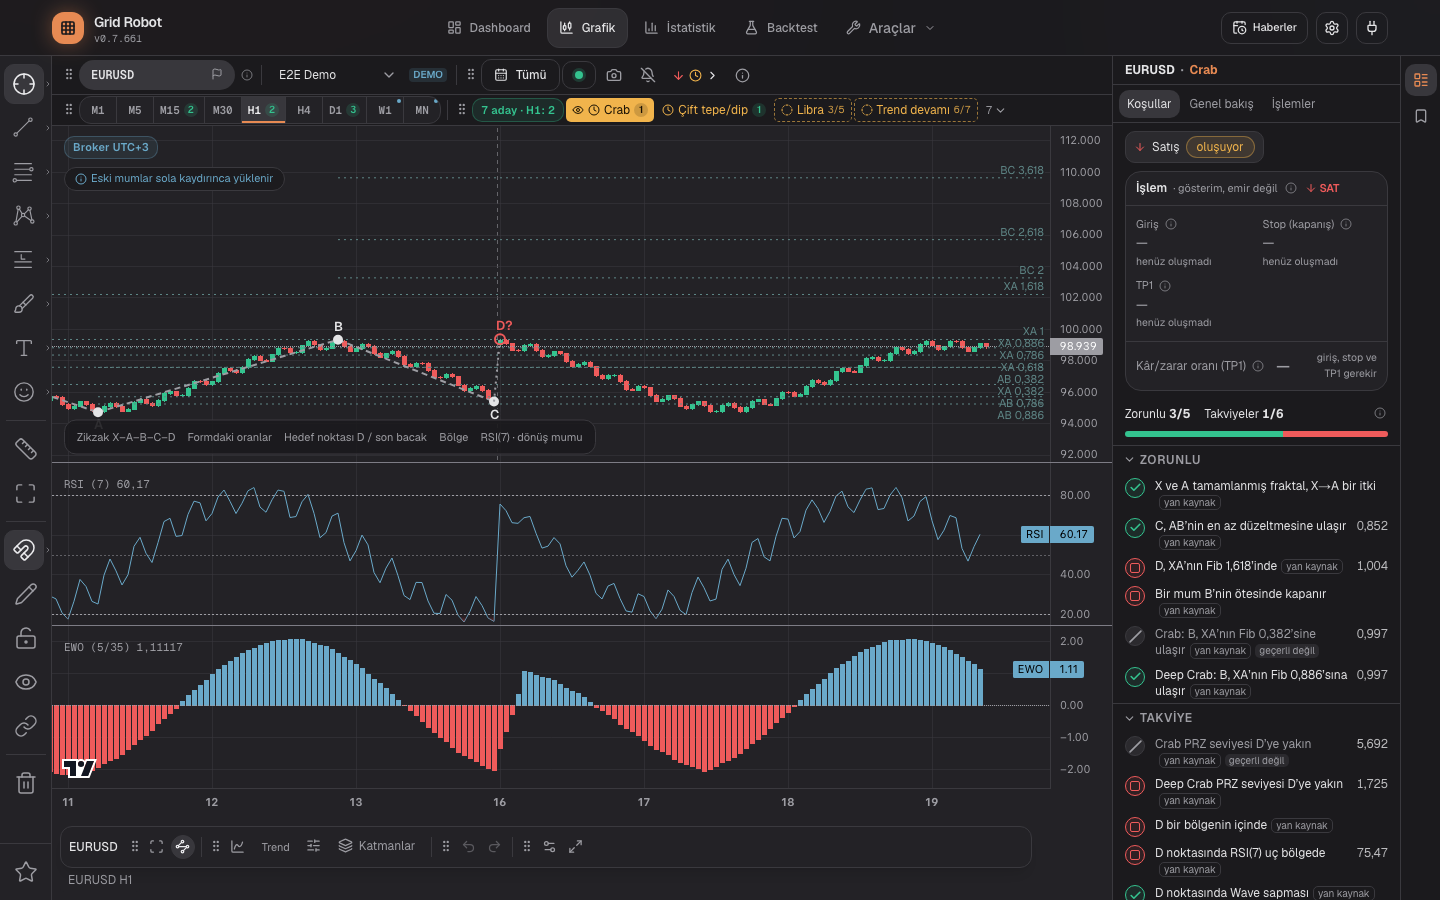
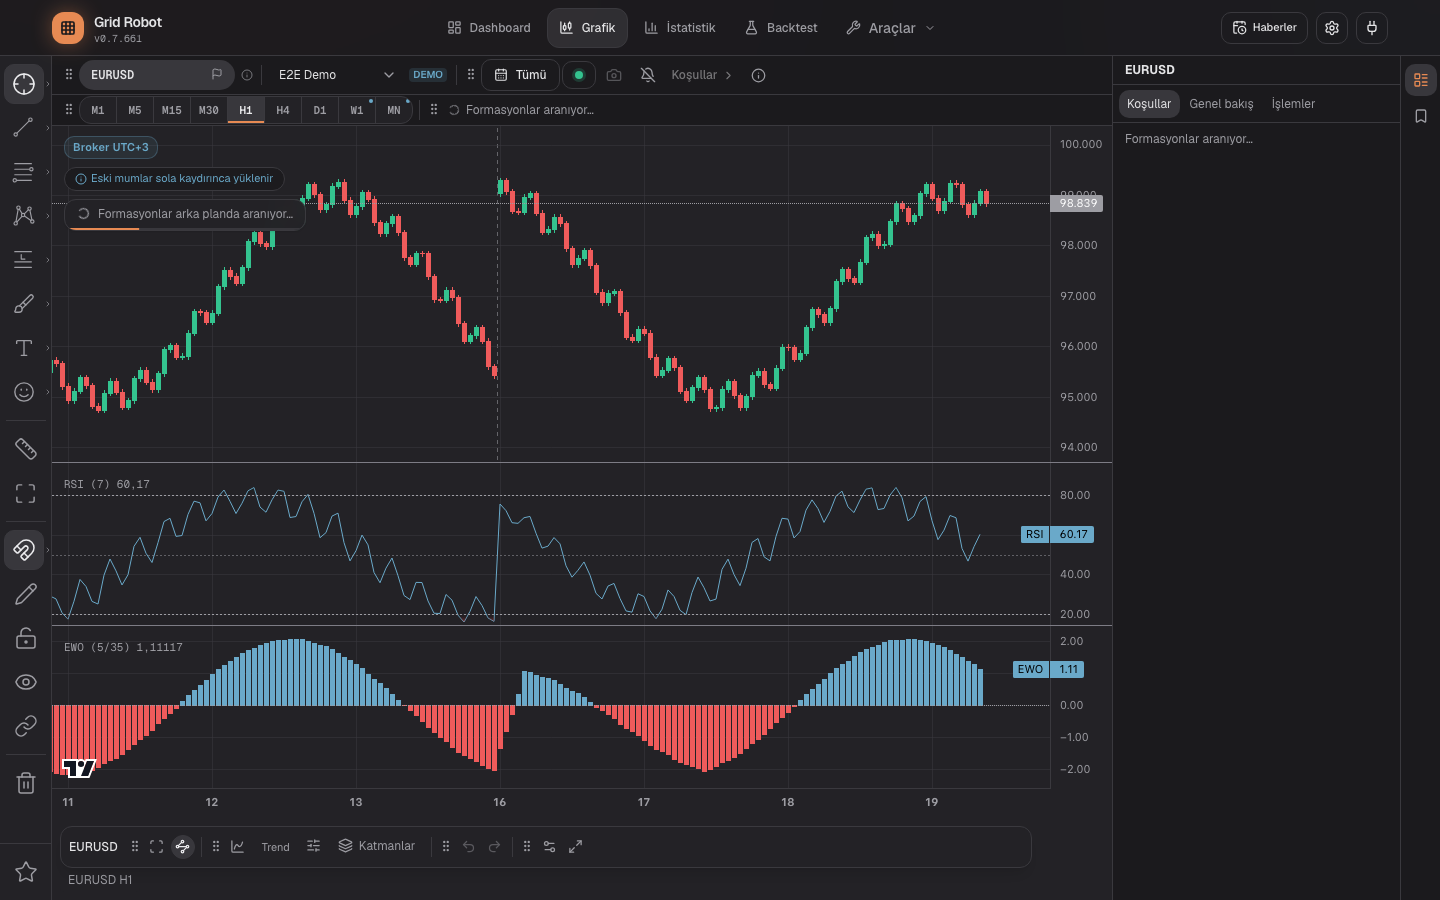
feat(chart): hesap seçici de yüklenirken yer tutucu; alarm testleri OneChart'ı bekler (UI-15)

diff --git a/frontend_nextjs/e2e/mocked/chart-topbar-loading.spec.ts b/frontend_nextjs/e2e/mocked/chart-topbar-loading.spec.ts
@@ -25,7 +25,7 @@ function xPositions(page: Page, timeframes: string) {
   return page.evaluate(([tf, accountLabel]) => {
     const left = (el: Element | null) => el ? Math.round(el.getBoundingClientRect().left * 10) / 10 : null;
     return {
-      account: left(document.querySelector(`[aria-label="${accountLabel}"]`)),
+      account: left(document.querySelector(`[aria-label="${accountLabel}"], [data-testid="chart-topbar-account-loading"]`)),
       range: left(document.querySelector('[data-testid="range-trigger"]')),
       timeframes: left(document.querySelector(`[data-testid="${tf}"]`)),
     };
@@ -49,6 +49,11 @@ test.describe('UI-15 Kopfleiste beim Laden der Kontoliste', () => {
     await expect(timeframes).toHaveAttribute('aria-busy', 'true');
     await expect(timeframes).toContainText('H4');
     await expect(page.getByTestId('chart-loading')).toBeVisible();
+    const account = page.getByTestId('chart-topbar-account-loading');
+    await expect(account).toBeVisible();
+    await expect(account).toHaveAttribute('aria-busy', 'true');
+    await expect(account).toContainText(msg('chart.loading.accounts'));
+    await expect(page.getByText(msg('account.select.placeholder'))).toHaveCount(0);
     const before = await xPositions(page, 'chart-topbar-timeframes-loading');
     const barBefore = await bar.evaluate((el) => Math.round(el.getBoundingClientRect().height));
 
@@ -56,6 +61,7 @@ test.describe('UI-15 Kopfleiste beim Laden der Kontoliste', () => {
     await expect(page.getByTestId('timeframe-select')).toBeVisible();
     await expect(symbol).toHaveCount(0);
     await expect(timeframes).toHaveCount(0);
+    await expect(account).toHaveCount(0);
     const after = await xPositions(page, 'timeframe-select');
     expect(before.account).not.toBeNull();
     expect(before.range).not.toBeNull();
@@ -74,6 +80,7 @@ test.describe('UI-15 Kopfleiste beim Laden der Kontoliste', () => {
     await expect(page.getByTestId('chart-topbar')).toBeVisible();
     await expect(page.getByTestId('chart-topbar-symbol-loading')).toHaveCount(0);
     await expect(page.getByTestId('chart-topbar-timeframes-loading')).toHaveCount(0);
+    await expect(page.getByTestId('chart-topbar-account-loading')).toHaveCount(0);
     release();
     await expect(page.getByTestId('timeframe-select')).toBeVisible();
   });

diff --git a/frontend_nextjs/src/components/formation/FormationSelectors.tsx b/frontend_nextjs/src/components/formation/FormationSelectors.tsx
@@ -9,6 +9,7 @@ import { Combobox, ComboboxAutocomplete } from '@/components/ui/combobox';
 import { InfoHint, Tooltip } from '@/components/ui/tooltip';
 import { useFavorites } from '@/hooks/useFavorites';
 import { useSymbolDetails } from '@/hooks/useSymbolDetails';
+import { useDock } from '@/components/chart-workspace/dock/DockProvider';
 import { useT } from '@/i18n';
 import { cn } from '@/lib/utils';
 import type { SymbolDetail } from '@/store/types';
@@ -156,14 +157,26 @@ export function FormationSymbolSelect({ accountId, value, onChange, className }:
 }
 
 /** Konto als flacher Knopf; LIVE/DEMO steht immer sichtbar daneben. */
-export function FormationAccountSelect({ accounts, value, onChange, className }: {
+export function FormationAccountSelect({ accounts, value, onChange, className, loading = false }: {
   className?: string;
+  /** Die Kontoliste lädt (1119-A9.1): auf dem Desktop steht ein grauer Platzhalter statt „Konto wählen“; auf dem Handy bleibt der bisherige Zustand */
+  loading?: boolean;
   accounts: Account[];
   value: string | null;
   onChange: (id: string) => void;
 }) {
   const t = useT();
+  const dock = useDock();
   const env = accounts.find((account) => String(account.id) === value)?.env_type;
+  if (loading && dock && !dock.phone) {
+    return (
+      <Tooltip content={t('chart.loading.accounts.hint')} className={cn('min-w-0 flex-1 lg:w-44 lg:flex-none', className)}>
+        <div role="status" aria-busy="true" data-testid="chart-topbar-account-loading" className="flex h-[30px] w-full min-w-0 animate-pulse items-center px-2 text-xs text-muted-foreground">
+          <span className="truncate">{t('chart.loading.accounts')}</span>
+        </div>
+      </Tooltip>
+    );
+  }
   return (
     <Tooltip content={t('account.label.hint')} className={cn('min-w-0 flex-1 lg:w-44 lg:flex-none', className)}>
       <div className="flex w-full min-w-0 items-center gap-1">

diff --git a/frontend_nextjs/src/i18n/messages/hints.ts b/frontend_nextjs/src/i18n/messages/hints.ts
@@ -40,6 +40,7 @@ const existingHints = defineArea(
     "backtest.compare.breakdown.hint": "Kapanan işlemleri setup, kapanış günü veya MT5 saatine göre gruplar.",
 
     // --- Hesap ---
+    'chart.loading.accounts.hint': 'Hesap listesi worker’dan yükleniyor; yüklenince hesap seçici burada açılır.',
     'account.label.hint':
       'Üzerinde çalışılan MT5 hesabını seçer. Bölgeler, bot ve loglar seçili hesaba aittir.',
     'account.action.downloadLog.hint': 'Seçili hesabın bot log dosyasını bilgisayarınıza indirir.',
@@ -743,6 +744,7 @@ const existingHints = defineArea(
     "backtest.compare.breakdown.hint": "Groups closed trades by setup, closing weekday or MT5 hour.",
 
     // --- Account ---
+    'chart.loading.accounts.hint': 'The account list is loading from the worker; the account selector appears here when it is ready.',
     'account.label.hint':
       'Selects the MT5 account you are working with. Zones, bot and logs belong to the selected account.',
     'account.action.downloadLog.hint': 'Downloads the bot log file of the selected account to your computer.',
@@ -1446,6 +1448,7 @@ const existingHints = defineArea(
     "backtest.compare.breakdown.hint": "Gruppiert geschlossene Trades nach Setup, Schließ-Wochentag oder MT5-Stunde.",
 
     // --- Konto ---
+    'chart.loading.accounts.hint': 'Die Kontoliste wird vom Worker geladen; die Kontoauswahl erscheint hier, sobald sie da ist.',
     'account.label.hint':
       'Wählt das MT5-Konto, mit dem Sie arbeiten. Zonen, Bot und Logs gehören zum gewählten Konto.',
     'account.action.downloadLog.hint': 'Lädt die Bot-Logdatei des gewählten Kontos auf Ihren Computer herunter.',

diff --git a/frontend_nextjs/e2e/mocked/formation-page.spec.ts b/frontend_nextjs/e2e/mocked/formation-page.spec.ts
@@ -1627,6 +1627,8 @@ test.describe('FRM-30 Alarm für Favoriten und Alarm-Produkte auf jeder Seite', 
       Notification.requestPermission = () => new Promise(() => {});
     });
     await page.goto(`/chart?account=${DEMO_ID}`);
+    // Erst der Chart des Kontos: ein Panel, das in der Ladeleiste (ohne Konto) geöffnet wird, geht beim Wechsel verloren (UI-15, 1119-A9.1)
+    await expect(page.getByTestId('timeframe-select')).toBeVisible();
     await openAlarmSettings(page);
     const stored = () => page.evaluate((key) => JSON.parse(localStorage.getItem(key) ?? '{}'), KEY);
     await page.getByRole('switch', { name: msg('formation.alarm.favorites') }).click();
@@ -1954,6 +1956,8 @@ test.describe('FRM-30 Alarm für Favoriten und Alarm-Produkte auf jeder Seite', 
     serveFixture(worker, NOW);
     await seed(page, { favoritesEnabled: [DEMO_ID], history: { [DEMO_ID]: [history()] }, forms: [] });
     await page.goto(`/chart?account=${DEMO_ID}`);
+    // Erst der Chart des Kontos: ein Panel, das in der Ladeleiste (ohne Konto) geöffnet wird, geht beim Wechsel verloren (UI-15, 1119-A9.1)
+    await expect(page.getByTestId('timeframe-select')).toBeVisible();
     await page.getByTestId('formation-alarm').click();
     await expect(page.getByRole('tab', { name: new RegExp(`^${msg('formation.alarm.tab.history')}`) })).toHaveAttribute('aria-selected', 'true');
     await expect(historyItems(page)).toHaveCount(1);

diff --git a/frontend_nextjs/src/app/chart/page.tsx b/frontend_nextjs/src/app/chart/page.tsx
@@ -78,6 +78,7 @@ function ChartRoot() {
     account: (
       <FormationAccountSelect
         accounts={accounts}
+        loading={accountsPending}
         value={accountId}
         onChange={(id) => {
           if (id !== accountId) setAccount(id);

diff --git a/docs/journal/2026-11-17-ui15-phone-topbar-measure-race.md b/docs/journal/2026-11-17-ui15-phone-topbar-measure-race.md
@@ -49,4 +49,4 @@ Rejected candidate: the time of the mock data (`E2E_FAKE_NOW`, formation candida
 A test on `/chart` that waits for the account select can still see the top bar of `NoAccountChart`. Wait for an element that only `OneChart` shows (for example `formation-symbol`) before a measurement. Measure related values in one `evaluate` call: `Locator.evaluate` takes the element in one call and runs the function in a second call.
 
 ## Open points
-- [ ] Other tests read `chart-topbar` with `Locator.evaluate` (`chart-header.spec.ts:194` and `:303`, `chart-topbar.spec.ts:20` and `:66`, `formation-page.spec.ts:741`, `formation-past.spec.ts:163`). Not examined for the same race. In the 64 CI runs above, only `chart-header.spec.ts:360` was examined.
+- [x] Other tests read `chart-topbar` with `Locator.evaluate` (`chart-header.spec.ts:194` and `:303`, `chart-topbar.spec.ts:20` and `:66`, `formation-page.spec.ts:741`, `formation-past.spec.ts:163`). Examined on 2026-11-19 (PR of `2026-11-19-chart-topbar-placeholder.md`): all six already wait for a signal that only `OneChart` has before they measure (`data-scan-ms` as a number, `formation-form-GAR`, or the canvas of the chart); no change needed. Proof: with `GET /accounts` delayed by 1.5 s in the mock, all of them pass. The delay showed two other tests that open the alarm panel in the loading bar (`formation-page.spec.ts`, FRM-30 and FRM-32); they now wait for `timeframe-select` first.

diff --git a/docs/journal/2026-11-19-chart-topbar-placeholder.md b/docs/journal/2026-11-19-chart-topbar-placeholder.md
@@ -23,4 +23,5 @@ The symbol placeholder always has the width `w-44`, the same as the real symbol 
 
 ## Evidence
 - `e2e/mocked/chart-topbar-loading.spec.ts` (@UI-15): holds `GET /accounts`, checks the placeholders, releases, and measures account, date range and timeframes in one `evaluate` call: maximum 1 px shift. Red without the change (the placeholders did not exist), green with it.
-- Other tests that read `chart-topbar` stay green; see the PR.
+- The account select also shows a gray placeholder with "Hesaplar yükleniyor…" (desktop), not "Bir hesap seçin" (coordinator review of the first screenshots). Same width as the real select.
+- Other tests that read `chart-topbar` stay green. With `GET /accounts` delayed by 1.5 s (temporary change in the mock, not committed), `chart-header`, `chart-topbar`, `formation-page`, `formation-past` and the new spec pass. The delay found two alarm tests (FRM-30, FRM-32) that clicked the alarm button of the loading bar; they now wait for `timeframe-select`. The six tests of the open point in `2026-11-17-ui15-phone-topbar-measure-race.md` were already safe; that point is closed.
